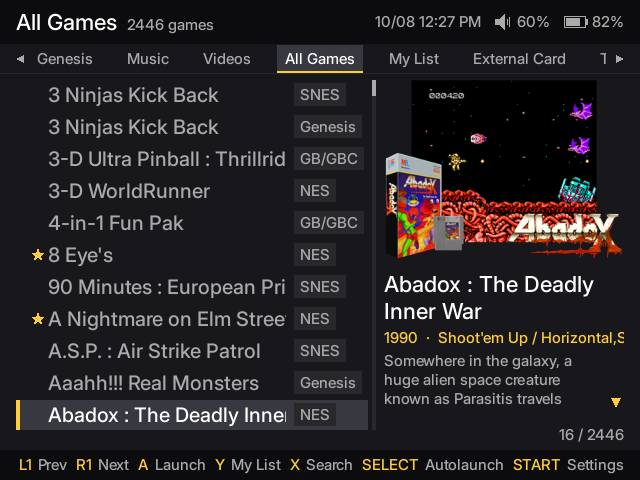
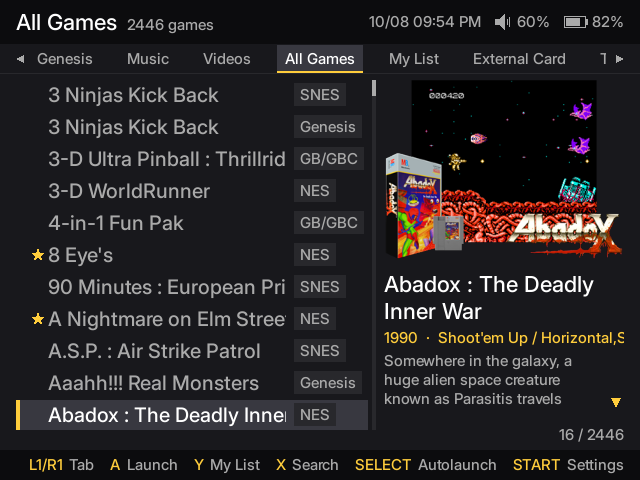
Puppy: "L1/R1 Tab" in the launcher's bottom bar
System Settings shows "L1/R1 Section"; the launcher had "L1 Prev
R1 Next" for the same buttons. One hint for both is consistent and
gives the other hints room on the nearly full bar.

pt-BR: "Tab = Aba" replaces Prev and Next, now unused. README: the
Translations note on short words, and puppy-grid.png and
puppy-list.png retaken. Only the scenes that end in the launcher
change (its bottom bar).

Changed region(s): [[0.0312, 0.9375, 0.7812, 1.0], [0.5625, 0.0312, 0.7188, 0.0625]]

diff --git a/rootfs/package/puppy/src/launcher.cpp b/rootfs/package/puppy/src/launcher.cpp
@@ -220,7 +220,7 @@ Header LauncherScreen::header() const {
 
 Hints LauncherScreen::hints() const {
     const Entry* sel = model.selected();
-    Hints hints = {{"L1", tr("Prev")}, {"R1", tr("Next")}, {"A", tr("Launch")},
+    Hints hints = {{"L1/R1", tr("Tab")}, {"A", tr("Launch")},
                    {"Y", tr(sel && model.isFavorite(*sel) ? "Remove" : "My List")}};
     // while searching, clearing the search is more useful than starting a new one
     if (model.query.empty()) hints.push_back({"X", tr("Search")});

diff --git a/README.md b/README.md
@@ -231,7 +231,7 @@ To add a language:
 1. Copy `pt-BR.lang` to a file named after your language's code, e.g. `es.lang` or `fr.lang`.
 2. Change the first lines: `language` is the language's own name (`Español`) and `language_en` its English name (`Spanish`).
 3. Translate the right side of each `English text = Translation` line. Keep the left side exactly as it is: it's the text that is looked up. Keep `%s` / `%d` where they are, and `\n` for line breaks.
-4. Keep the launcher's bottom-bar words short (Prev, Next, Launch...): the bar is nearly full.
+4. Keep the launcher's bottom-bar words short (Tab, Launch, Search...): the bar is nearly full.
 5. Optionally add your language's name to the other files (`Spanish = Espanhol` in `pt-BR.lang`), so the selector shows it in every language.
 
 Anything left untranslated simply shows in English. Then open a pull request with the new file.
